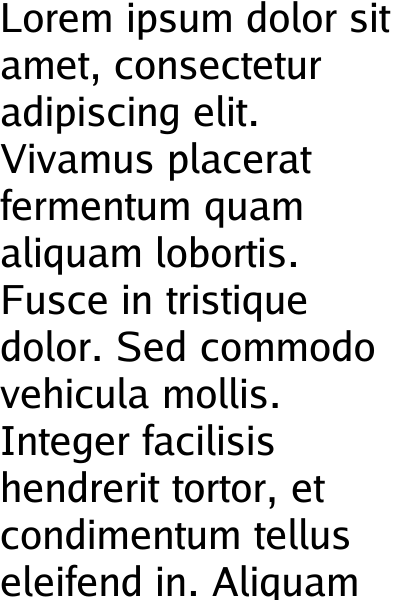
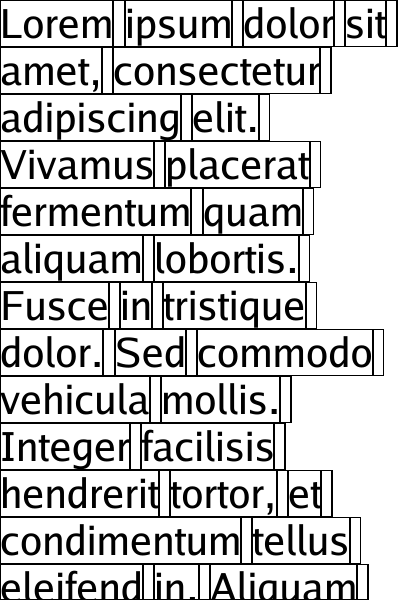
Documentation

Changed region(s): [[0.0, 0.0, 1.0, 1.0]]

diff --git a/readme.md b/readme.md
@@ -1,0 +1,160 @@
+# golang-wrapper
+
+This is a library to provide positional and rendering word wrapping of text any arbitrary rectangle. 
+It is capable of giving you the positions of each individual word, as well as rendering it to an image if desired.
+
+![](doc/goal.png)
+
+To
+
+![](images/goalimage.png)
+
+It is technically capable of handling rich text and non-text objects; adding them can be done manually as a library user.
+
+Part of the goal of the library was to:
+* Provide just positioning details without drawing
+* Be as simple as necessary
+* Be usable with the `image` package and not provide too much of a framework
+* Support rich text eventually
+* Support arbitrary locations provided as a `image.Rectangle` or `image.Image`
+
+# Concept
+
+## Box
+
+![](doc/boxes.png)
+
+The basics of the library is that it first breaks up the line in to "boxes" boxes can essentially be anything however
+in the 'simple' implementation here they are assumed to be a set of characters, spaces, or a control character (essentially
+a new line) A box can be thought of the lowest level representation that the library is willing to dea with.
+
+This is created by a `boxer`:
+```go
+type Boxer func(fce font.Face, color image.Image, text []rune, options ...BoxerOption) (Box, int, error)
+```
+
+For simple uses of the wrapping library you shouldn't need to worry about this. But you might care if you want to insert
+your box, which can be done provided it implements the: `Box` interface. But basically a box interface tells the size of 
+the object, the baseline, and a mechanism for drawing it.
+
+![](doc/box.png)
+
+The baseline is probably the most important part, it is the "line" which the character is positioned. If you were to mix
+multiple font sizes you would want a consistent baseline so they all appear on the same level:
+
+![](doc/boxexample.png)
+
+## Line
+
+A line is just that a line of boxes that fit in the given space (provied in a rect). A line is produced by a `Liner`. 
+Such as a simple liner. Line does the real folding work; in the 'simple' version it calls the boxer (subject to change) 
+for the next element. Then stops when it runs out of space. If it ends on a space it will return a new line character instead.
+
+![](doc/line.png)
+
+## Simple
+
+Simple basically is the first iteration which is simple enough to be used. I have used it as I intend to add versions which 
+work differently. Simple makes many assumptions such as language assumptions.
+
+## Wrap
+
+Wrap is just a container object for ease of use.
+
+# Usage
+
+How do I use this to draw text in the simplest possible way?
+
+```go
+	i := image.NewRGBA(image.Rect(0, 0, *width, *height))
+	gr, err := OpenFont(*fontname)
+	if err != nil {
+		log.Panicf("Error opening font %s: %s", *fontname, err)
+	}
+	grf := GetFontFace(*fontsize, *dpi, gr)
+	text, err := GetText(*textsource)
+	if err != nil {
+		log.Panicf("Text fetch error: %s", err)
+	}
+	if err := wordwrap.SimpleWrapTextToImage(text, i, grf, options); err != nil {
+		log.Panicf("Text wrap and draw error: %s", err)
+	}
+```
+
+Note:
+* OpenFont - left to an exercise for the user
+* GetFontFace - left to an exercise for the user
+* GetText - left to an exercise for the user
+
+You could also do it in 2 steps, this provides the rectangles incase you wanted to make a word clickable.
+
+```go
+	i := image.NewRGBA(image.Rect(0, 0, *width, *height))
+	gr, err := OpenFont(*fontname)
+	if err != nil {
+		log.Panicf("Error opening font %s: %s", *fontname, err)
+	}
+	grf := GetFontFace(*fontsize, *dpi, gr)
+	text, err := GetText(*textsource)
+	if err != nil {
+		log.Panicf("Text fetch error: %s", err)
+	}
+    target := image.Rect(350,44,592, 209)
+    sw, lines, _, err := wordwrap.SimpleWrapTextToRect(text, target, grf)
+    if err != nil {
+    log.Panicf("Text wrap error: %s", err)
+    }
+    if err := sw.RenderLines(i, lines, target.Min); err != nil {
+    log.Panicf("Text draw error: %s", err)
+    }
+```
+
+## Options
+
+There will be more options but some are:
+
+### wordwrap.BoxLine
+
+Using the option `BoxLine` will cause the image to draw a box around the lines of boxes. Like such
+![](images/sample2.png)
+
+Usage:
+```go
+wordwrap.SimpleWrapTextToImage(text, i, grf, wordwrap.BoxLine)
+```
+
+### wordwrap.BoxBox
+
+Using the option `BoxLine` will cause the image to draw a box around the boxes. Like such
+![](images/sample4.png)
+
+Usage:
+```go
+wordwrap.SimpleWrapTextToImage(text, i, grf, wordwrap.BoxBox)
+```
+
+## CLI app
+
+For demo purposes there is a CLI app in `cmd/simplewraptoimage`
+
+```
+  -dpi float
+    	Doc dpi (default 180)
+  -font string
+    	Text font (default "goregular")
+  -height int
+    	Doc height (default 600)
+  -out string
+    	file to write to, in some cases this is ignored (default "out.png")
+  -size float
+    	font size (default 16)
+  -text string
+    	File in, or - for std input (default "-")
+  -width int
+    	Doc width (default 400)
+```
+
+Only font that is supported is "goregular" as this is only a demo. Happy to accept PRs to expand the `util` package to 
+make it more general. (Or to include more cli.)
+
+The contents of the `images` directory are outputs from this using the test data from the folder `testdata`
